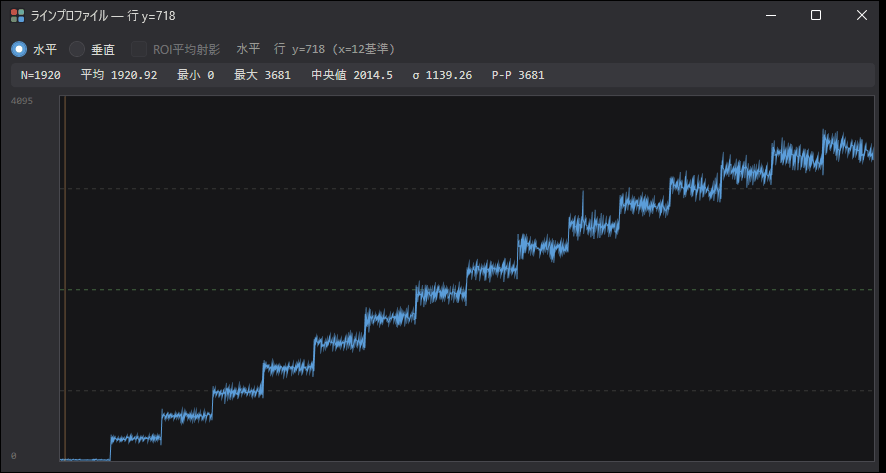
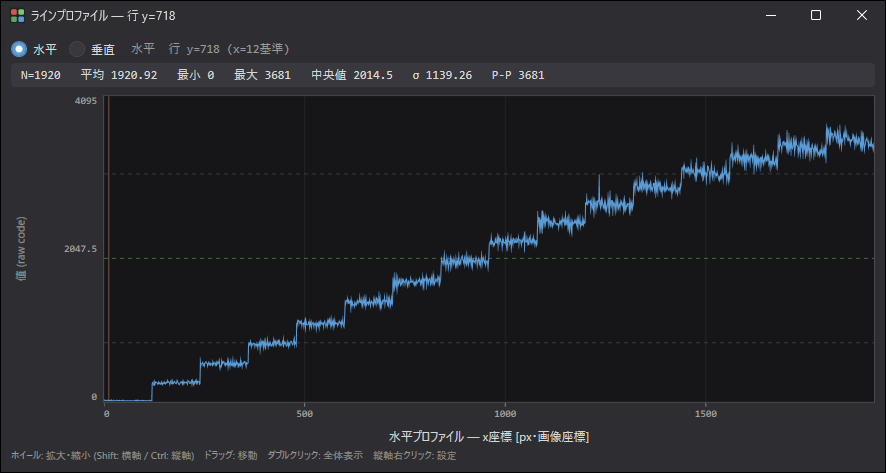
README のラインプロファイルの画像を ROI平均射影のチェックがない今の窓で撮り直し、射影の節にデモの暗時フレーム全体の水平射影の窓の画像と、その見方の説明を足す

diff --git a/README.md b/README.md
@@ -115,9 +115,14 @@ ROI の平均射影は、次の射影の窓で見ます。
 
 #### 射影 (水平射影・垂直射影)
 
+<img src="docs/images/projection.png" width="640" alt="射影 (水平射影)">
+
 ROI があれば ROI、なければ画像全体について、列ごと・行ごとの平均を並べたグラフです。
 EMVA 1288 にならい、平均の線に加えて各位置の**最大・最小**の線も描きます(「最大・最小」のチェックで消せます)。
 水平と垂直は別々の窓で、同時に開いて並べられます(`H` / `V`、ツールメニュー、コマンドパレットでも開閉)。
+
+上の画像はデモの暗時フレーム(`Generate-DemoScene.ps1 -Dark`)全体の水平射影で、縦軸を 200〜300 に指定しています。
+白キズを含む列が、最大の線の 4095 への突き抜けと、平均の線の小さな突き出し(約 +3.6 code)として出ています。
 
 | 窓 | 何を並べるか | 見るもの |
 |---|---|---|
